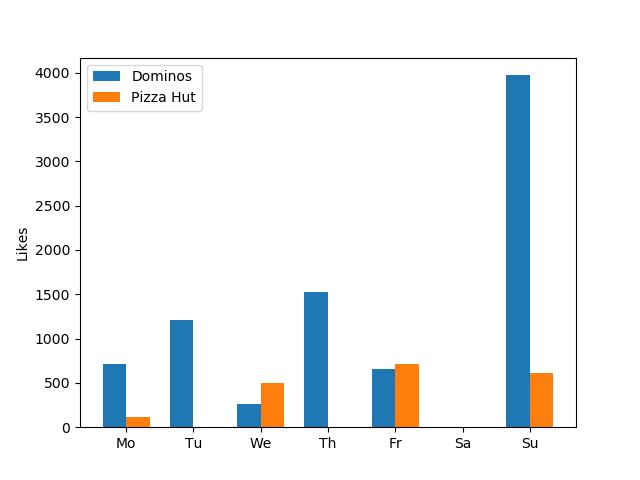
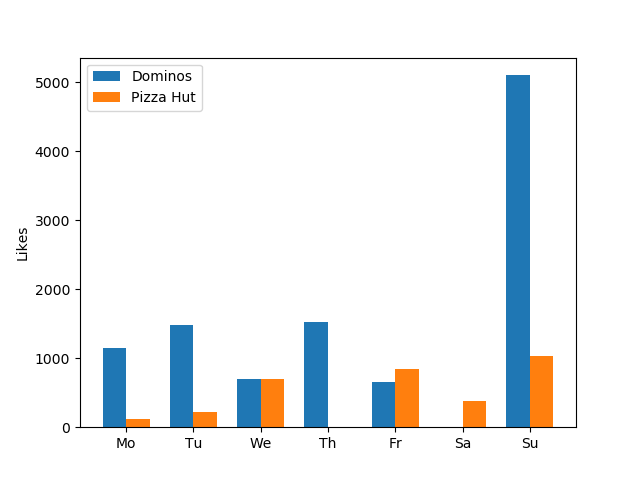
Overall plots for official accounts for the first 3 weeks

diff --git a/code/analysisOfficial.py b/code/analysisOfficial.py
@@ -23,9 +23,9 @@ The plots are saved to: ../SocialWeb/plots/weeki
 The csv file is saved to: ../SocialWeb/data/weeki
 '''
 # parameters
-fileName=  'PizzaHutOfficial02-03_08-03.csv'   #'DominosOfficial24-02_01-03.csv' , 'PizzaHutOfficial24-02_01-03.csv'
-week = 'week2' #'week1', 'week3'
-brand = 'pizzahut' #pizzahut, dominos
+fileName=  'DominosOfficial(09_03_15_03).csv'   #'DominosOfficial24-02_01-03.csv' , 'PizzaHutOfficial24-02_01-03.csv'
+week = 'week3' #'week1', 'week3'
+brand = 'dominos' #pizzahut, dominos
 outputName = brand + '_analysis_'+ week + '.csv'
 
 #'OfficialAnalysisTest.csv'
@@ -44,8 +44,8 @@ plotPath = os.path.join(fileDir, filePath) #'../data/test.csv')
 plotPath = os.path.abspath(os.path.realpath(plotPath))
 
 # NUMBER OF TWEETS PER WEEKDAY
-df = pd.read_csv(csvPath)
-df.columns=['Time','Post_id','Tweet','Retweet count','Like count'] # needed because some of the older csv-files don't have headers
+df = pd.read_csv(csvPath, delimiter = ';')
+df.columns=['Time','Post_id','Tweet','Retweet count','Like count'] # needed because some of the older csv-files don't have header
 dates = df['Time']
 
 weekday=[]
@@ -121,8 +121,6 @@ plotName = brand +'_retweetCount.png'
 plt.savefig(os.path.join(plotPath, plotName))
 plt.show()
 #plt.plot(list(retweet_count.keys()),list(retweet_count.values()))
-
-
 
 # NUMBER OF LIKES PER WEEKDAY
 Monday_like = 0

diff --git a/code/compareOfficial.py b/code/compareOfficial.py
@@ -18,7 +18,7 @@ The plots are saved to: ../SocialWeb/plots/overall
 '''
 
 # parameter
-weeks = ['week1', 'week2']
+weeks = ['week1', 'week2', 'week3']
 
 # to keep track of overall Dominos data
 dominosTweets = {'Monday': 0, 'Tuesday': 0, 'Wednesday':0, 'Thursday':0, 'Friday':0, 'Saturday':0, 'Sunday':0}
